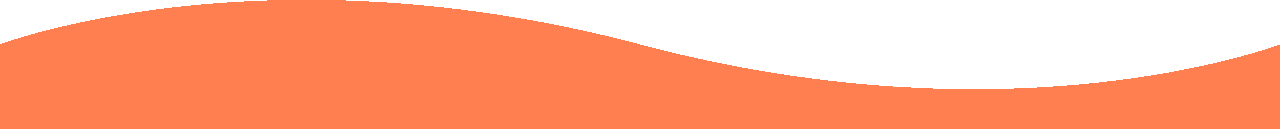
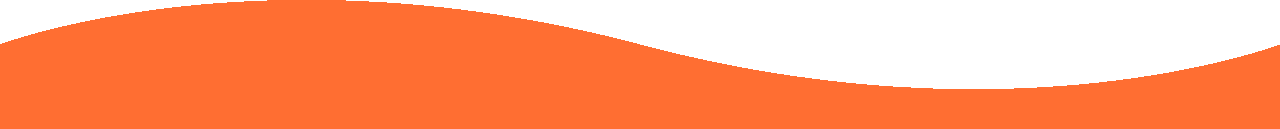
commit

diff --git a/Michael Website/blogmain.html b/Michael Website/blogmain.html
@@ -76,6 +76,16 @@
             </header><hr class="mb-0 mt-0">
     <section class="page-section bg-primary text-white" id="featured">
         <div class="container">
+            <!-- About Section Heading-->
+            <h2 id="en" class="page-section-heading text-center text-uppercase text-white">Featured</h2>
+            <h2 id="he" class="page-section-heading text-center text-uppercase text-white">אודות</h2>
+            <h2 id="ru" class="page-section-heading text-center text-uppercase text-white">Об</h2>
+            <!-- Icon Divider-->
+            <div class="divider-custom divider-light">
+                <div class="divider-custom-line"></div>
+                <div class="divider-custom-icon"><i class="fas fa-user"></i></div>
+                <div class="divider-custom-line"></div>
+            </div>
             <div class="card mb-4">
                 <a href="#"><img class="card-img-top" src="https://dummyimage.com/850x350/dee2e6/6c757d.jpg" alt="..."></a>
                 <div class="card-body">
@@ -89,6 +99,50 @@
     </section>
     <section class="page-section bg-primary text-white" id="stories">
         <div class="container">
+            <!-- About Section Heading-->
+            <h2 id="en" class="page-section-heading text-center text-uppercase text-white">Stories</h2>
+            <h2 id="he" class="page-section-heading text-center text-uppercase text-white">אודות</h2>
+            <h2 id="ru" class="page-section-heading text-center text-uppercase text-white">Об</h2>
+            <!-- Icon Divider-->
+            <div class="divider-custom divider-light">
+                <div class="divider-custom-line"></div>
+                <div class="divider-custom-icon"><i class="fas fa-user"></i></div>
+                <div class="divider-custom-line"></div>
+            </div>
+            <div class="position-relative d-flex align-items-center justify-content-center mb-0">
+                <div class="row align-items-center mb-3 col-5">
+                    <div class="card mb-4">
+                    <a href="#"><img class="card-img-top" src="https://dummyimage.com/850x350/dee2e6/6c757d.jpg" alt="..."></a>
+                    <div class="card-body">
+                        <div class="small text-muted">20 october</div>
+                        <h2 class="card-title text-black">title</h2>
+                        <p class="card-text text-black">lorem ipsum check heck</p>
+                        <a class="btn btn-primary">Read more</a>
+                    </div></div>
+                    <div class="card mb-4">
+                    <a href="#"><img class="card-img-top" src="https://dummyimage.com/850x350/dee2e6/6c757d.jpg" alt="..."></a>
+                    <div class="card-body">
+                        <div class="small text-muted">20 october</div>
+                        <h2 class="card-title text-black">title</h2>
+                        <p class="card-text text-black">lorem ipsum check heck</p>
+                        <a class="btn btn-primary">Read more</a>
+                    </div>
+                </div>
+            </div>
+        </div>
+    </section>
+    <section class="page-section bg-primary text-white" id="stories">
+        <div class="container">
+            <!-- About Section Heading-->
+            <h2 id="en" class="page-section-heading text-center text-uppercase text-white">Posts</h2>
+            <h2 id="he" class="page-section-heading text-center text-uppercase text-white">אודות</h2>
+            <h2 id="ru" class="page-section-heading text-center text-uppercase text-white">Об</h2>
+            <!-- Icon Divider-->
+            <div class="divider-custom divider-light">
+                <div class="divider-custom-line"></div>
+                <div class="divider-custom-icon"><i class="fas fa-user"></i></div>
+                <div class="divider-custom-line"></div>
+            </div>
             <div class="row">
                 <div class="col-lg-6"><div class="card mb-4">
                     <a href="#"><img class="card-img-top" src="https://dummyimage.com/850x350/dee2e6/6c757d.jpg" alt="..."></a>
@@ -106,28 +160,10 @@
                         <p class="card-text text-black">lorem ipsum check heck</p>
                         <a class="btn btn-primary">Read more</a>
                     </div>
-                </div></div>
-                <div class="col-lg-6"><div class="card mb-4">
-                    <a href="#"><img class="card-img-top" src="https://dummyimage.com/850x350/dee2e6/6c757d.jpg" alt="..."></a>
-                    <div class="card-body">
-                        <div class="small text-muted">20 october</div>
-                        <h2 class="card-title text-black">title</h2>
-                        <p class="card-text text-black">lorem ipsum check heck</p>
-                        <a class="btn btn-primary">Read more</a>
-                    </div>
-                </div><div class="card mb-4">
-                    <a href="#"><img class="card-img-top" src="https://dummyimage.com/850x350/dee2e6/6c757d.jpg" alt="..."></a>
-                    <div class="card-body">
-                        <div class="small text-muted">20 october</div>
-                        <h2 class="card-title text-black">title</h2>
-                        <p class="card-text text-black">lorem ipsum check heck</p>
-                        <a class="btn btn-primary">Read more</a>
-                    </div>
-                </div></div>
+                </div>
             </div>
         </div>
     </section>
-    
         <!-- JavaScript Libraries -->
         <script src="https://code.jquery.com/jquery-3.4.1.min.js"></script>
         <script src="https://stackpath.bootstrapcdn.com/bootstrap/4.4.1/js/bootstrap.bundle.min.js"></script>

diff --git a/Michael Website/css/styles.css b/Michael Website/css/styles.css
@@ -33,7 +33,7 @@
 	--bs-gray-700: #495057;
 	--bs-gray-800: #343a40;
 	--bs-gray-900: #212529;
-	--bs-primary: #ff7f50;
+	--bs-primary: #ff6e32;
 	--bs-secondary: #2c3e50;
 	--bs-success: #198754;
 	--bs-info: #0dcaf0;
@@ -42,7 +42,7 @@
 	--bs-light: #f8f9fa;
 	--bs-dark: #212529;
 	--bs-primary-rgb: 61, 66, 63;
-	--bs-secondary-rgb: 255, 101, 0;
+	--bs-secondary-rgb: 255, 110, 50;
 	--bs-success-rgb: 25, 135, 84;
 	--bs-info-rgb: 13, 202, 240;
 	--bs-warning-rgb: 255, 193, 7;
@@ -63,6 +63,7 @@
 	--bs-body-line-height: 1.5;
 	--bs-body-color: #212529;
 	--bs-body-bg: #fff;
+	--bs-wave-img: url('../assets/img/wave.png');
 }
 *,
 *::before,
@@ -77,9 +78,10 @@
 	}
 }
 [data-theme="dark"] {
-	--bs-primary-rgb: 255, 255, 255;
+	--bs-primary-rgb: 175, 238, 238;
+	--bs-secondary-rgb: 255, 123, 0;
 	--bs-white-rgb: 0, 0, 0;
-	--bs-avatar-rgb: ;
+	--bs-wave-img: url('../assets/img/wavelight.png');
 }
 body {
 	margin: 0;
@@ -2698,7 +2700,7 @@ textarea.form-control-lg {
 .form-range::-moz-range-thumb {
 	width: 1rem;
 	height: 1rem;
-	background-color: #ff7f50;
+	background-color: rgb(var(--bs-secondary-rgb));
 	border: 0;
 	border-radius: 1rem;
 	-moz-transition: background-color 0.15s ease-in-out, border-color 0.15s ease-in-out, box-shadow 0.15s ease-in-out;
@@ -3221,36 +3223,36 @@ fieldset:disabled .btn {
 
 .btn-success {
 	color: #fff;
-	background-color: #ff7f50;
+	background-color: rgb(var(--bs-secondary-rgb));
 	border-color: #fff;
 }
 .btn-success:hover {
-	color: #2c3e50;
+	color: rgb(var(--bs-primary-rgb));
 	background-color: #fff;
 	border-color: #fff;
 }
 .btn-check:focus + .btn-success,
 .btn-success:focus {
 	color: #fff;
-	background-color: #ff7f50;
-	border-color: #ff7f50;
+	background-color: rgb(var(--bs-secondary-rgb));
+	border-color: rgb(var(--bs-secondary-rgb));
 }
 .current_lang {
-	color: #ff7f50;
+	color: rgb(var(--bs-secondary-rgb));
 	font-weight: bolder;
-	background-color: #2c3e50;
+	background-color: rgb(var(--bs-primary-rgb));
 	border-color: #fff;
 }
 .current_clr_dark {
-	color: #ff7f50;
+	color: rgb(var(--bs-secondary-rgb));
 	font-weight: bolder;
-	background-color: #2c3e50;
+	background-color: rgb(var(--bs-primary-rgb));
 	border-color: #fff;
 }
 .current_clr_light {
-	color: #ff7f50;
+	color: rgb(var(--bs-secondary-rgb));
 	font-weight: bolder;
-	background-color: #2c3e50;
+	background-color: rgb(var(--bs-primary-rgb));
 	border-color: #fff;
 }
 .current_lang:hover,
@@ -3265,7 +3267,7 @@ fieldset:disabled .btn {
 .current_clr_dark:focus {
 	pointer-events: none;
 }
-.current_clr_lightk:hover,
+.current_clr_light:hover,
 .current_clr_light:active,
 .current_clr_light:checked,
 .current_clr_light:focus {
@@ -5379,7 +5381,7 @@ fieldset:disabled .btn {
 	color: #fff;
 	text-align: center;
 	white-space: nowrap;
-	background-color: #ff7f50;
+	background-color: rgb(var(--bs-secondary-rgb));
 	transition: width 0.6s ease;
 }
 @media (prefers-reduced-motion: reduce) {
@@ -11706,7 +11708,6 @@ html {
 		-webkit-box-shadow: inset 0px 0px 0px 9px rgba(255, 255, 255, .3);
 		-moz-box-shadow: inset 0px 0px 0px 9px rgba(255, 255, 255, .3);
 		box-shadow: inset 0px 0px 0px 9px rgba(255, 255, 255, .3);
-		background-color: rgb(var(--bs-avatar-rgb));
 	}
 }
 .portfolio .portfolio-item {
@@ -11754,7 +11755,7 @@ footer {
 	color: #f0f0f0;
 	position: relative;
 	width: 100%;
-	background: #ff7f50;
+	background: rgb(var(--bs-secondary-rgb));
 	min-height: 100px;
 	padding: 20px 50px;
 	display: flex;
@@ -11767,7 +11768,7 @@ footer .wave {
 	left: 0;
 	width: 100%;
 	height: 100px;
-	background: url('../assets/img/wave.png');
+	background: var(--bs-wave-img);
 	background-size: 1000px 100px;
 }
 footer .wave#wave1 {

diff --git a/Michael Website/index.html b/Michael Website/index.html
@@ -20,7 +20,7 @@
         <link rel="stylesheet" href="https://unpkg.com/flickity@2/dist/flickity.min.css">
         
     </head>
-    <body id="page-top">
+    <body id="page-top header">
         <!-- Navigation-->
         <nav class="navbar navbar-expand-lg bg-secondary text-uppercase fixed-top" id="mainNav">
             <div class="container">
